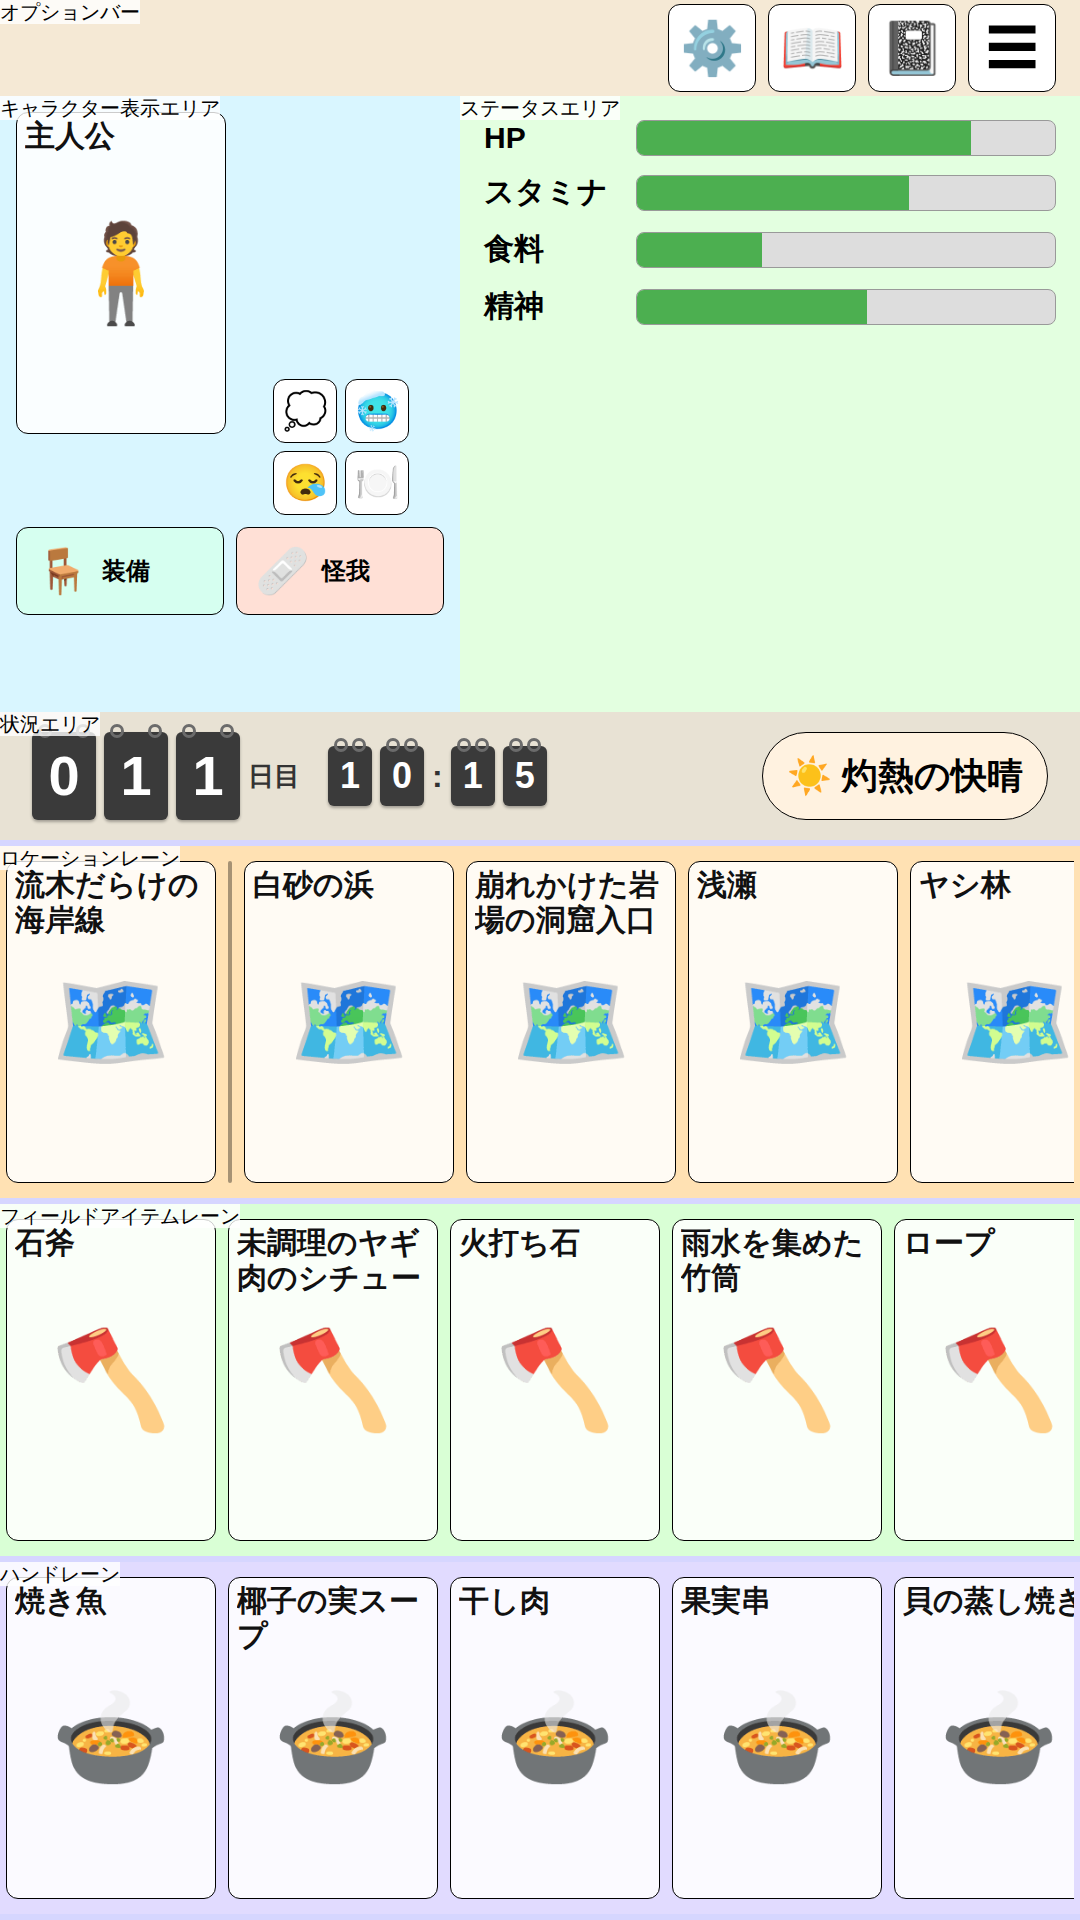
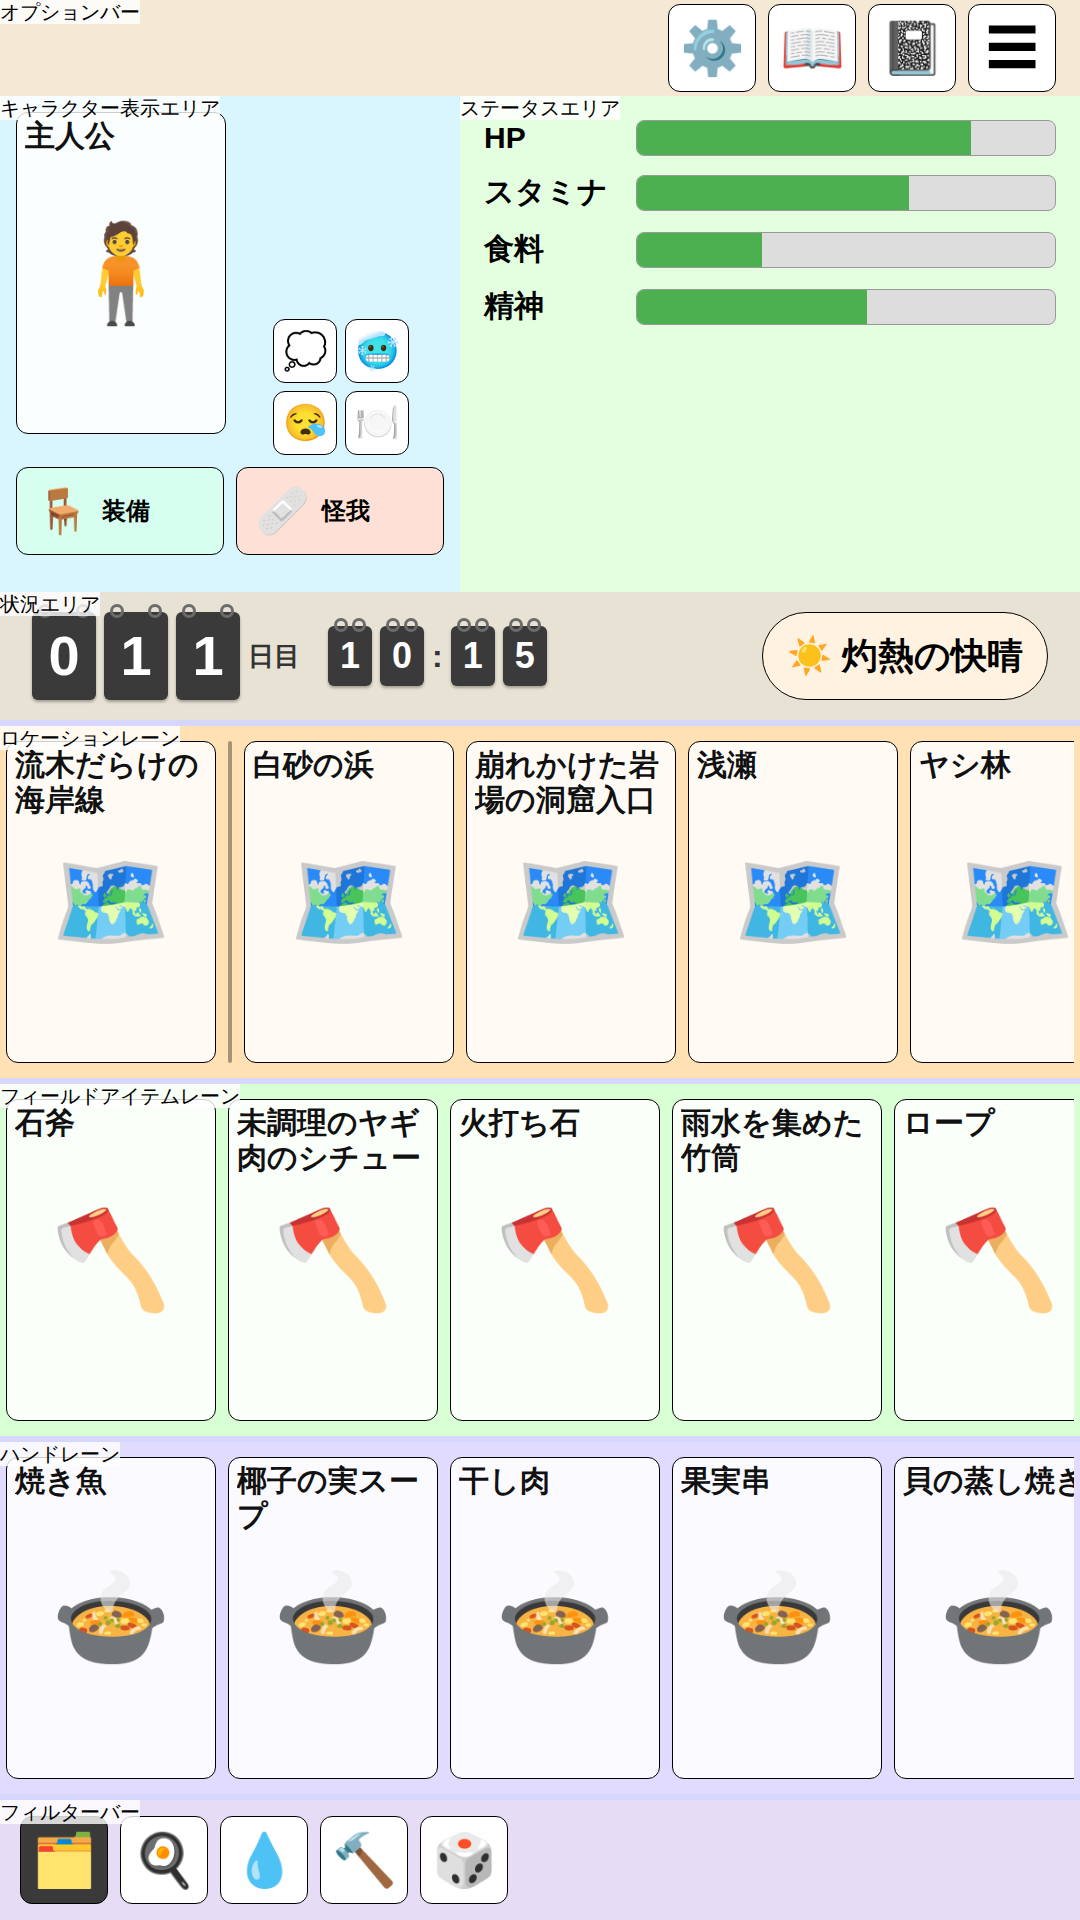
docs: フィルターバーを追加し、横型のオプションバーをフィールド右へ移動
フィールドエリア下(縦型)/右(横型)にタグ絞り込み用のフィルターバーを新設。横型では
オプションバーもフィールド右の共有サイドバーへ移し、上段オプション/下段フィルターの
2段構成にすることで、縦型でキャラクターエリアが間延びしていた問題を解消する
(空いたフィールド幅・高さをキャラクターエリアではなくサイドバー/フィルターバーに
回せるため)。フィルターボタンはオプションボタンと同じアイコンのみの正方形ボタンで統一。

Claude-Session: https://claude.ai/code/session_017mz69xFpjWLJMvgraCLnuJ

diff --git a/Documents/UI/ScreenLayout_Mock.html b/Documents/UI/ScreenLayout_Mock.html
@@ -57,19 +57,31 @@
       pointer-events: none;
     }
 
+    /* 画面全体は4つの領域（オプション・ダッシュボード・フィールド・フィルター）を
+       持つグリッド。各領域は grid-area で名指しし、向きが変わっても同じ要素を
+       使い回せるようにする。縦型/横型の配置差は grid-template-areas の違いだけで表現する。
+       縦型: オプション上部→ダッシュボード→フィールド→フィルター下部の縦積み。
+       横型: ダッシュボード｜フィールド｜オプション+フィルターの縦列（右上/右下）の3列。 */
     .screen {
-      display: flex;
-      flex-direction: column;
+      display: grid;
       width: 100%;
       height: 100%;
+      grid-template-columns: 1fr;
+      grid-template-rows: auto 1fr calc(1080 * var(--u)) auto;
+      grid-template-areas:
+        "options"
+        "dashboard"
+        "field"
+        "filter";
       background: #f6f6f6;
     }
 
     .dashboard-column {
+      grid-area: dashboard;
       display: flex;
       flex-direction: column;
-      flex: 1;
       min-height: 0;
+      min-width: 0;
     }
 
     /* ---- カード ---- */
@@ -380,11 +392,11 @@
     }
 
     /* ---- オプションバー ---- */
-    /* 縦型: 画面上部に固定（order:-1）。横型: 画面下部（order は横型メディアクエリで上書き） */
+    /* 縦型: 画面最上部の横長バー。横型: 画面右上の縦積み列（横型メディアクエリ参照） */
 
     .options-bar {
+      grid-area: options;
       position: relative;
-      order: -1;
       height: var(--bar-h);
       flex-shrink: 0;
       display: flex;
@@ -395,17 +407,43 @@
       background: #f5e9d5;
     }
 
+    /* ---- フィルターバー ---- */
+    /* フィールドエリアに表示するカードをタグで絞り込むボタン列。ラベルなしのアイコンのみで、
+       オプションボタンと同じ最小タップ領域（icon-button）を共有する。
+       縦型: フィールドエリア下部の横スクロール行。横型: 画面右下の縦積み列
+       （横型メディアクエリ参照）。選択中のタグは filter-button--active で強調する */
+    .filter-bar {
+      grid-area: filter;
+      position: relative;
+      display: flex;
+      align-items: center;
+      gap: var(--gap);
+      padding: calc(16 * var(--u)) calc(20 * var(--u));
+      overflow-x: auto;
+      min-width: 0;
+      background: #e6dcf5;
+      scrollbar-width: none;
+    }
+
+    .filter-bar::-webkit-scrollbar { display: none; }
+
+    .filter-button--active {
+      background: #3a3a3a;
+      color: #fff;
+    }
+
     /* ---- フィールドエリア ---- */
 
     .field-area {
+      grid-area: field;
       position: relative;
-      height: calc(1080 * var(--u));
-      flex-shrink: 0;
       display: flex;
       flex-direction: column;
       gap: var(--margin);
       padding: var(--margin) 0;
       background: #d6d6ff;
+      min-height: 0;
+      min-width: 0;
     }
 
     .lane {
@@ -454,11 +492,20 @@
     /* ---- 横型 ---- */
 
     @media (orientation: landscape) {
-      /* 天候を日時から切り離し、状況エリアを日時だけの幅で済ませることで
+      /* 3列グリッドに変える: ダッシュボード｜フィールド｜オプション+フィルターの縦列。
+         右列は上下2行（オプション=画面右上、フィルター=画面右下）で、
+         ダッシュボード・フィールドはその2行にまたがる（縦型は1列の縦積み）。
+         天候を日時から切り離し、状況エリアを日時だけの幅で済ませることで
          ダッシュボード列を絞り、浮いた横幅をフィールドエリアに回す。
          キャラクター表示エリアは左にポートレイトカード、右の列に条件セル・
          装備・怪我を縦に並べる構成に変える（縦型は2×2グリッドのまま） */
-      .screen { flex-direction: row; }
+      .screen {
+        grid-template-columns: calc(540 * var(--u)) 1fr calc(172 * var(--u));
+        grid-template-rows: auto 1fr;
+        grid-template-areas:
+          "dashboard field options"
+          "dashboard field filter";
+      }
 
       /* 天候が抜けて日時だけになった分、状況エリアの高さも内容に合わせて縮める。
          浮いた高さはステータスエリアに回る */
@@ -518,17 +565,24 @@
         padding: calc(24 * var(--u));
       }
 
+      /* オプションは画面右上の縦積み列に切り替える */
       .options-bar {
-        order: 1;
-        justify-content: space-evenly;
-        padding: 0;
+        flex-direction: column;
+        height: auto;
+        width: 100%;
+        justify-content: center;
+        padding: calc(16 * var(--u));
       }
 
-      /* flex:1 のダッシュボード列がキャラクター表示エリアの min-content 幅で
-         突っ張らないようにし、field-area に指定した横幅を実際に反映させる */
-      .dashboard-column { min-width: 0; }
-
-      .field-area { width: calc(1380 * var(--u)); height: auto; }
+      /* フィルターも画面右下の縦積み列に切り替える（ボタン自体はオプションボタンと
+         同じ正方形サイズのまま、並び方向だけ変える） */
+      .filter-bar {
+        flex-direction: column;
+        justify-content: flex-start;
+        overflow-x: visible;
+        overflow-y: auto;
+        padding: calc(16 * var(--u));
+      }
     }
   </style>
 </head>
@@ -603,14 +657,14 @@
         <div class="label">天候</div>
         <div class="weather-chip">☀ 灼熱の快晴</div>
       </section>
-      <section class="options-bar">
-        <div class="label">オプションバー</div>
-        <button class="icon-button" type="button" aria-label="設定" title="設定">⚙</button>
-        <button class="icon-button" type="button" aria-label="図鑑" title="図鑑">📖</button>
-        <button class="icon-button" type="button" aria-label="日記" title="日記">📓</button>
-        <button class="icon-button" type="button" aria-label="メニュー" title="メニュー">☰</button>
-      </section>
     </div>
+    <section class="options-bar">
+      <div class="label">オプションバー</div>
+      <button class="icon-button" type="button" aria-label="設定" title="設定">⚙</button>
+      <button class="icon-button" type="button" aria-label="図鑑" title="図鑑">📖</button>
+      <button class="icon-button" type="button" aria-label="日記" title="日記">📓</button>
+      <button class="icon-button" type="button" aria-label="メニュー" title="メニュー">☰</button>
+    </section>
     <main class="field-area">
       <div class="lane location-lane">
         <div class="label">ロケーションレーン</div>
@@ -651,6 +705,14 @@
         </div>
       </div>
     </main>
+    <section class="filter-bar">
+      <div class="label">フィルターバー</div>
+      <button class="icon-button filter-button filter-button--active" type="button" aria-label="すべて" title="すべて">🗂</button>
+      <button class="icon-button filter-button" type="button" aria-label="料理" title="料理">🍳</button>
+      <button class="icon-button filter-button" type="button" aria-label="水" title="水">💧</button>
+      <button class="icon-button filter-button" type="button" aria-label="クラフティング" title="クラフティング">🔨</button>
+      <button class="icon-button filter-button" type="button" aria-label="娯楽" title="娯楽">🎲</button>
+    </section>
   </div>
 </body>
 </html>
